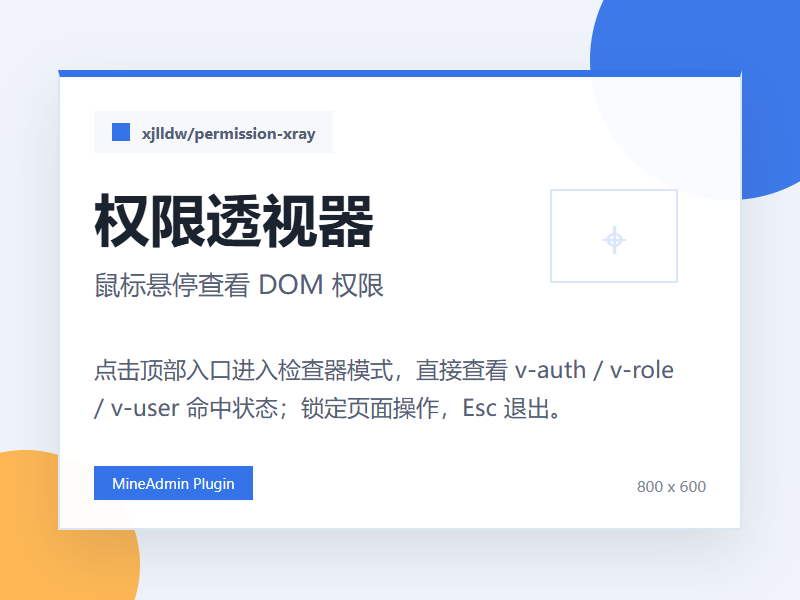
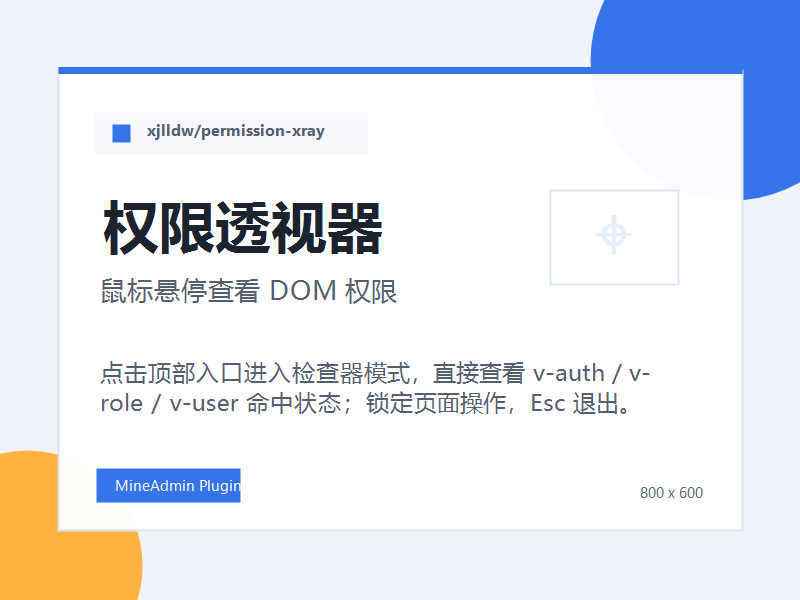
Add deterministic cover generator

diff --git a/README.md b/README.md
@@ -31,3 +31,11 @@ php bin/hyperf.php mine-extension:install xjlldw/permission-xray --yes
 2. 鼠标移动到页面上的按钮、菜单或内容区域。
 3. 浮层会显示当前 DOM 的 `v-auth / v-role / v-user`、命中状态和当前路由权限。
 4. 需要继续操作页面时，再点一次顶部按钮或按 `Esc` 关闭。
+
+## 封面生成
+
+封面由根目录的 `generate-cover.ps1` 生成，不依赖 AI。
+
+```powershell
+powershell -NoProfile -ExecutionPolicy Bypass -File .\generate-cover.ps1
+```